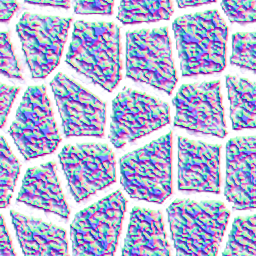
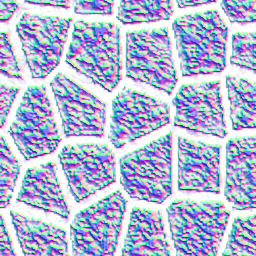
634HD fresh textures: drop 159, 322 and 387; 505 back in the tool
159, 322 and 387 never showed on screen in any view tried (hidden, or on
NPC clothing), so they could not be checked side by side: dropped. 505
(Varrock's street) had fallen out of make_fresh_textures.py's list; it
is back and remade with the current method (margin crop, per-axis
tiling), checked again in game at two zooms. 25 fresh textures.

diff --git a/tools/make_fresh_textures.py b/tools/make_fresh_textures.py
@@ -59,7 +59,8 @@ EPS = 0.03
 # another one with a gradient laid over it (90 is 91 darkened towards the bottom) shares its art.
 TEXTURES = {
     # Lumbridge and Varrock's most used textures (HDDEBUG textures used, the texture-id overlay), less
-    # the blank ones, decals, water and lava
+    # the blank ones, decals, water and lava, and those never seen on screen to check them by (159, 322,
+    # 387: their texels were hidden or on NPC clothing in every view tried)
     63: ('wooden planks', 'wood', 63),
     66: ('loose rock and stone chips', 'gravel', 66),
     70: ('packed dirt', 'ground', 70),
@@ -75,7 +76,6 @@ TEXTURES = {
     127: ('streaked stone', 'stone', 127),
     140: ('mottled plaster, shaded', 'sand', 254),
     154: ('sand', 'sand', 154),
-    159: ('weathered boards', 'wood', 163),
     163: ('vertical wooden wall boards', 'wood', 163),
     181: ('rocky ground with pebbles', 'ground', 181),
     185: ('straw and dry grass', 'grass', 185),
@@ -85,8 +85,7 @@ TEXTURES = {
     294: ('rough plaster', 'sand', 294),
     295: ('rough plaster, shaded', 'sand', 294),
     309: ('rocky ground', 'ground', 96),
-    322: ('mossy stone wall with mortar', 'brick', 322),
-    387: ('fine wood grain', 'wood', 387),
+    505: ('flagstones', 'brick', 505),
 }
 
 

diff --git a/docs/RENDERING.md b/docs/RENDERING.md
@@ -292,8 +292,8 @@ start (`--hd name=value,...` in the launcher), `::hd <name> <value>` while playi
   `tools/make_material_maps.py` (which now keeps the entries it does not make, such as 634HD's own
   materials); 42 sets in all.
 - **Fresh textures.** `tools/make_fresh_textures.py` makes them for the most used textures of
-  Lumbridge and Varrock (27; found with `HDDEBUG textures used` and the texture-id overlay, less blank
-  ones, decals, water and lava). The art is generated with `/generate` (nano-banana-2-lite; the game
+  Lumbridge and Varrock (25; found with `HDDEBUG textures used` and the texture-id overlay, less blank
+  ones, decals, water and lava, and three never seen on screen to check by). The art is generated with `/generate` (nano-banana-2-lite; the game
   texture at 512x512 as the reference, the prompt in `tools/fresh_prompt.txt`; output and sidecar in
   `~/Pictures/generations/634hd_fresh-<id>_*`, the sidecar copied to `fresh/generate.json`). It never
   replaces the game's look: the game texture, scaled to 256, is the base, and only the generation's
@@ -302,8 +302,8 @@ start (`--hd name=value,...` in the launcher), `::hd <name> <value>` while playi
   texture. At the usual zoom the GPU samples that level, so a fresh texture reads as the game's (same
   colour, brightness, scale and shapes: Varrock's street, texture 505, measured within a few percent
   of local contrast); up close the finer levels show the new grain instead of a blur. A texture that
-  is another with a gradient over it shares its art (90 and 109 take 91's, 309 takes 96's, 159 163's,
-  140 254's, 295 294's). The `fresh/` maps keep the cache texture's relief and add the fresh grain
+  is another with a gradient over it shares its art (90 and 109 take 91's, 309 takes 96's, 140 254's,
+  295 294's). The `fresh/` maps keep the cache texture's relief and add the fresh grain
   (`make_material_maps.make(fresh=True)`). Effect 1 textures (91, 90: the wet-cobble specular masked
   by alpha) depend on the game's alpha at its own size, which is why the alpha is not regenerated.
 - **634HD's own materials.** `materials.json` entries from texture 10000 up with an `albedo` file in
